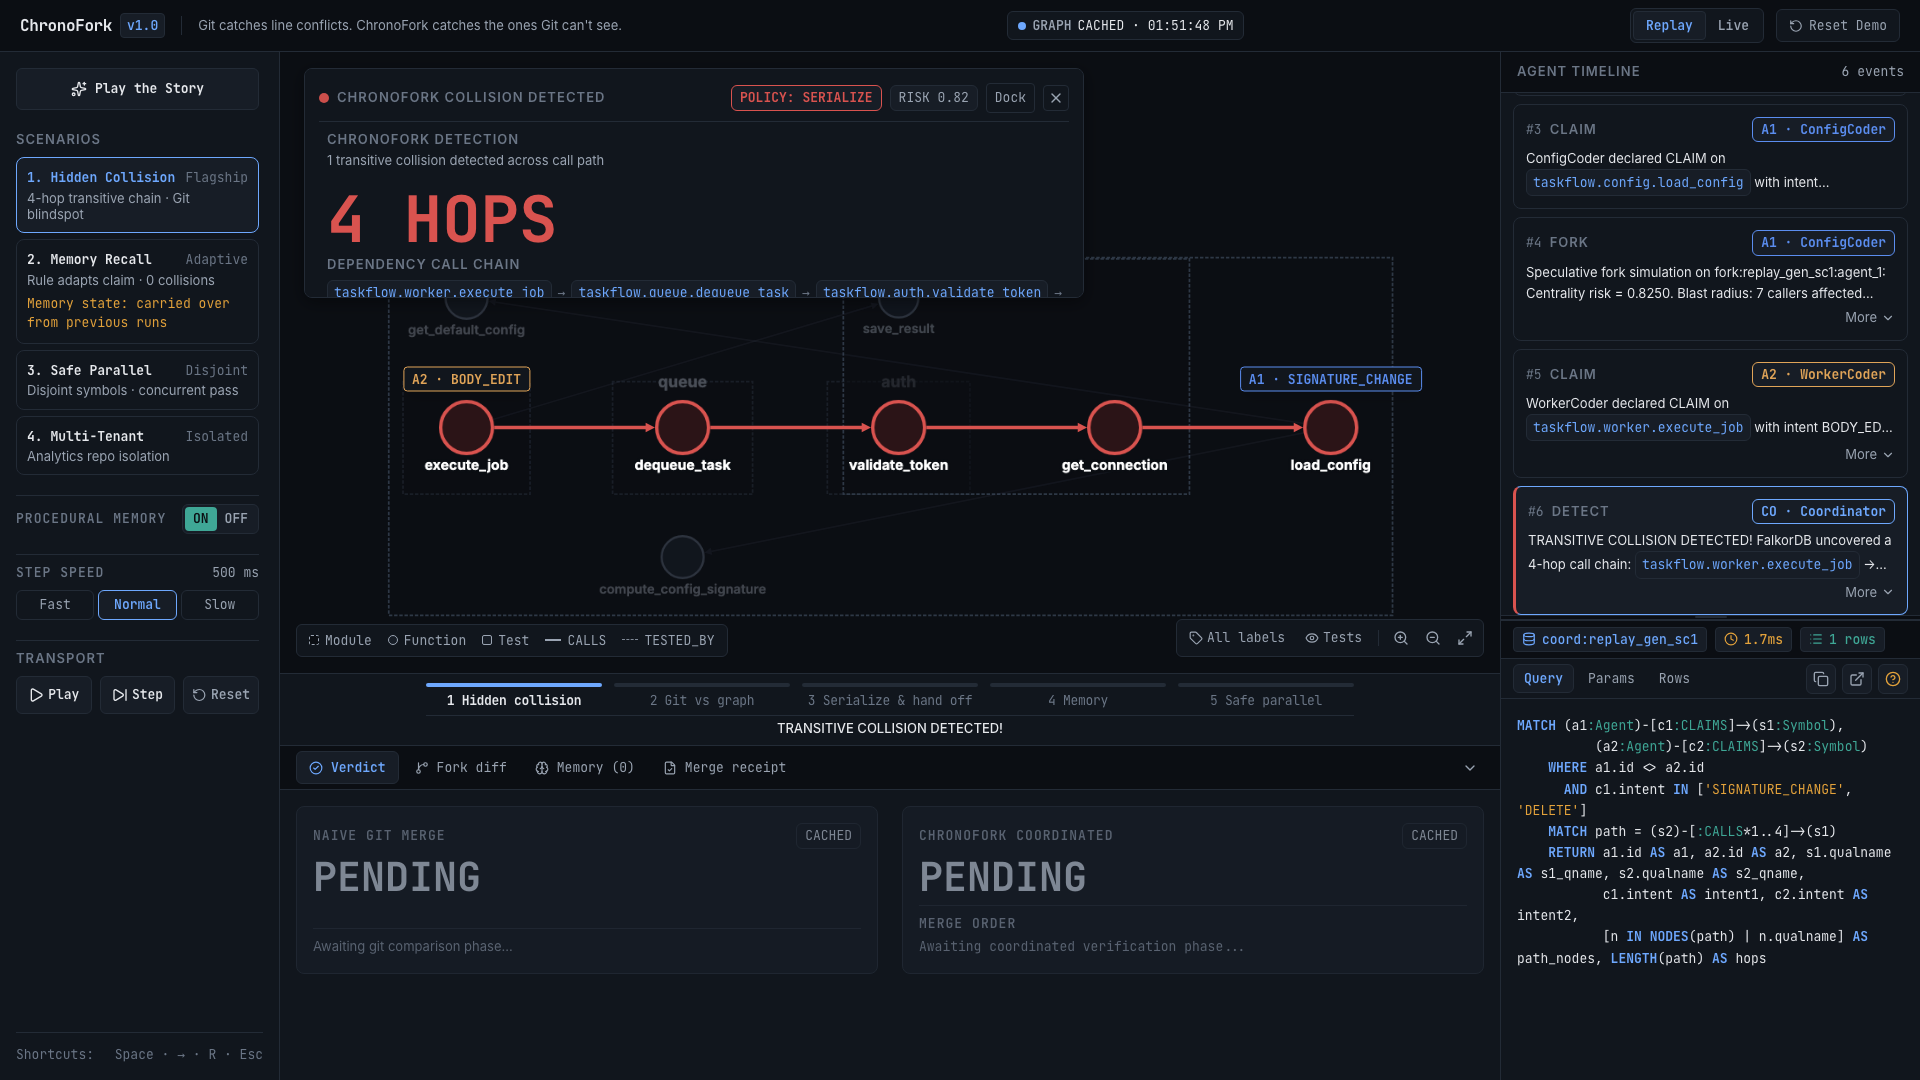
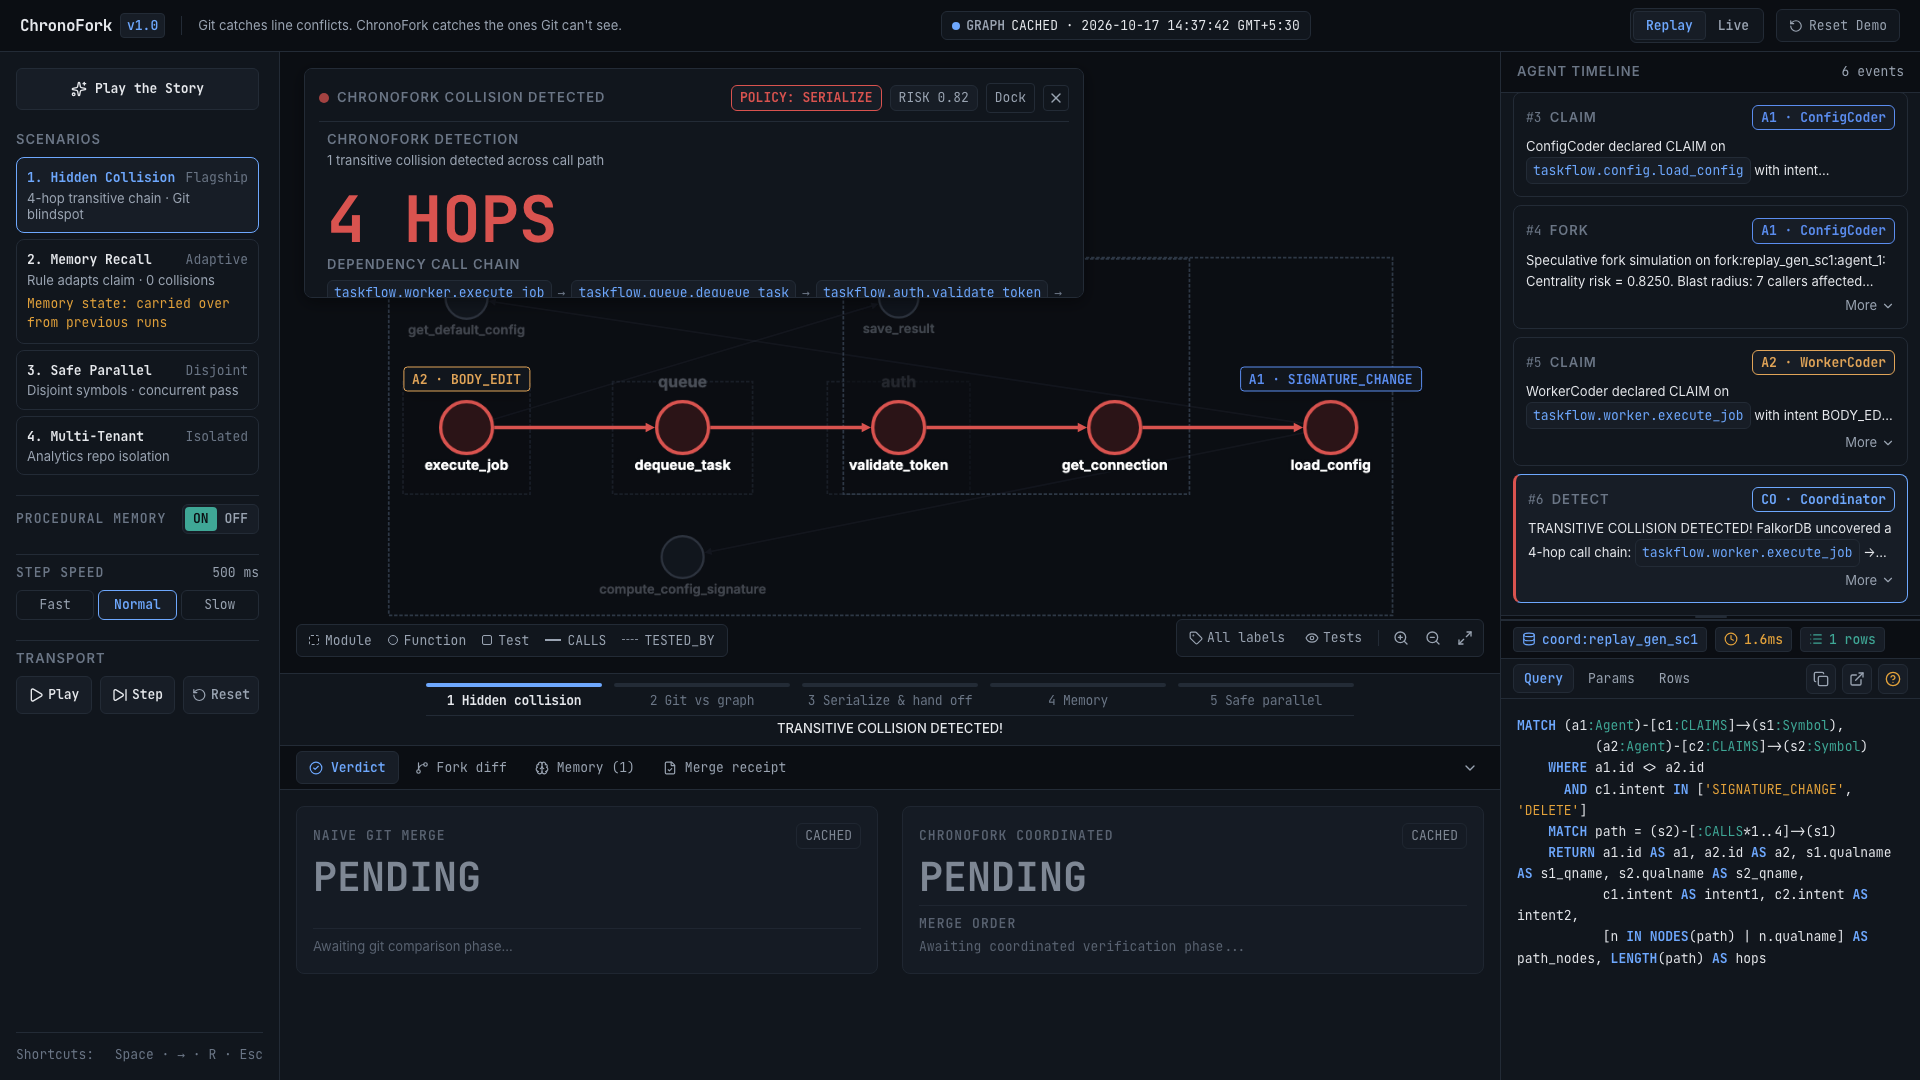
Fixes pass: memory label reactivity, graph label non-intersection, provenance timezone, restore evidence logs, DEMO_MODE warning

Changed region(s): [[0.7812, 0.0917, 1.0, 0.55], [0.5, 0.0, 0.6875, 0.0306], [0.9062, 0.0917, 1.0, 0.1222]]

diff --git a/frontend/src/components/ProvenanceStrip.tsx b/frontend/src/components/ProvenanceStrip.tsx
@@ -50,17 +50,31 @@ const STATE_CONFIG: Record<
   }
 };
 
+function formatProvenanceTimestamp(isoOrDate: string | Date): string {
+  const d = typeof isoOrDate === 'string' ? new Date(isoOrDate) : isoOrDate;
+  if (isNaN(d.getTime())) return '';
+  const pad = (n: number) => String(n).padStart(2, '0');
+  const year = d.getFullYear();
+  const month = pad(d.getMonth() + 1);
+  const day = pad(d.getDate());
+  const hours = pad(d.getHours());
+  const minutes = pad(d.getMinutes());
+  const seconds = pad(d.getSeconds());
+
+  let tz = '';
+  try {
+    const tzPart = new Intl.DateTimeFormat(undefined, { timeZoneName: 'short' })
+      .formatToParts(d)
+      .find((p) => p.type === 'timeZoneName');
+    if (tzPart) tz = tzPart.value;
+  } catch {}
+
+  return `${year}-${month}-${day} ${hours}:${minutes}:${seconds}${tz ? ' ' + tz : ''}`;
+}
+
 export const ProvenanceStrip: React.FC<ProvenanceStripProps> = ({ activeEvent, mode }) => {
   const timestampStr = activeEvent?.ts
-    ? new Date(activeEvent.ts * 1000).toLocaleString(undefined, {
-        year: 'numeric',
-        month: 'numeric',
-        day: 'numeric',
-        hour: '2-digit',
-        minute: '2-digit',
-        second: '2-digit',
-        timeZoneName: 'short'
-      })
+    ? formatProvenanceTimestamp(new Date(activeEvent.ts * 1000))
     : '—';
 
   const visiblePills = PILLS.filter((pill) => {
@@ -78,17 +92,13 @@ export const ProvenanceStrip: React.FC<ProvenanceStripProps> = ({ activeEvent, m
 
         const capturedIso = typeof raw === 'object' && raw?.captured_at ? raw.captured_at : null;
         const capturedDate = capturedIso
-          ? new Date(capturedIso).toLocaleTimeString(undefined, {
-              hour: '2-digit',
-              minute: '2-digit',
-              second: '2-digit'
-            })
-          : '';
+          ? formatProvenanceTimestamp(capturedIso)
+          : (activeEvent?.ts ? formatProvenanceTimestamp(new Date(activeEvent.ts * 1000)) : '');
 
         const badgeText = mode === 'replay' ? `CACHED · ${capturedDate || 'run'}` : 'REAL';
         const tooltipText = mode === 'replay'
-          ? `REPLAY · captured ${capturedIso || timestampStr} from a real execution`
-          : 'Live Execution';
+          ? `REPLAY · captured ${capturedDate || capturedIso || timestampStr} from a real execution`
+          : `Live Execution · ${capturedDate || timestampStr}`;
 
         return (
           <div

diff --git a/frontend/src/App.tsx b/frontend/src/App.tsx
@@ -334,14 +334,10 @@ export const App: React.FC = () => {
   const activeEvent = events[currentIndex] || null;
   const currentEvents = events.slice(0, currentIndex + 1);
 
-  // Derive memory presence strictly from actual rule and episode counts
-  const hasMemoryItems = Boolean(
-    (memoryData && (
-      (memoryData.rules && memoryData.rules.length > 0) ||
-      (memoryData.episodes && memoryData.episodes.length > 0)
-    )) ||
-    events.some((e) => Boolean(e.memory_write) || e.phase === 'MEMORY_UPDATE')
-  );
+  // Derive memory presence strictly from actual rule and episode counts (> 0)
+  const ruleCount = memoryData?.rules?.length || 0;
+  const episodeCount = memoryData?.episodes?.length || 0;
+  const hasMemoryItems = (ruleCount + episodeCount) > 0;
 
   return (
     <div className="flex flex-col h-screen w-screen overflow-hidden bg-[var(--bg-0)] text-[var(--text)] font-sans select-none">

diff --git a/docs/evidence/phase0/README.md b/docs/evidence/phase0/README.md
@@ -11,24 +11,24 @@
 
 | Log File | Description | Observed Exit Code / Result |
 |---|---|---|
-| [`verify_phase0_stdout.txt`](docs/evidence/phase0/verify_phase0_stdout.txt) | FalkorDB syntax verification & performance benchmarks on 10-node toy graph | Exit 0. PageRank: 3.84ms, Betweenness: 2.21ms, Copy: 105.46ms. |
-| [`pytest_taskflow_stdout.txt`](docs/evidence/phase0/pytest_taskflow_stdout.txt) | Native Pytest on baseline `demo_repo/taskflow/tests` | Exit 0. 12 passed in 0.03s. |
-| [`pytest_analytics_stdout.txt`](docs/evidence/phase0/pytest_analytics_stdout.txt) | Native Pytest on baseline `demo_repo/analytics/tests` | Exit 0. 2 passed in 0.00s. |
-| [`verify_item1_stdout.txt`](docs/evidence/phase0/verify_item1_stdout.txt) | Naive Git merge vs ChronoFork verifier comparison | Exit 0. Naive Git: 5 FAILED, 7 PASSED (0.17s). Verifier: 12 PASSED (0.12s). |
-| [`verify_item3_stdout.txt`](docs/evidence/phase0/verify_item3_stdout.txt) | Query trace isolation across all 14 swarm events | Exit 0. All 14 traces isolated per tool. |
-| [`verify_item4_stdout.txt`](docs/evidence/phase0/verify_item4_stdout.txt) | Replay cache latency & SSE stream verification | Exit 0. Replay latency: 7.7ms; 15 event lines streamed. |
-| [`verify_item8_stdout.txt`](docs/evidence/phase0/verify_item8_stdout.txt) | Real isolated workspace pytest execution | Exit 0. 12 passed in 0.13s in `/tmp/chronofork_ws_*`. |
-| [`verify_item9_stdout.txt`](docs/evidence/phase0/verify_item9_stdout.txt) | DEMO_MODE restriction validation | Exit 0. POST /repos returned 403; POST /runs served cache. |
-| [`verify_scenarios_2_3_4_stdout.txt`](docs/evidence/phase0/verify_scenarios_2_3_4_stdout.txt) | Coordinator execution of scenarios 2, 3, 4 | Exit 0. S2: rule recalled, S3: 12 passed, S4: 1 passed. |
-| [`test_p1_stdout.txt`](docs/evidence/phase0/test_p1_stdout.txt) | AST parsing, 4-hop chain resolution, risk scoring | Exit 0. 69 symbols, 29 CALLS, 16 TESTED_BY. |
-| [`test_p2_stdout.txt`](docs/evidence/phase0/test_p2_stdout.txt) | Collision detection & speculative fork simulation | Exit 0. S1: 4-hop collision found; S3: 0 collisions. |
-| [`test_p3_stdout.txt`](docs/evidence/phase0/test_p3_stdout.txt) | Episodic memory record, confidence update, upfront recall | Exit 0. Confidence 0.80 -> 0.90; recalled upfront with 90%. |
-| [`test_p4_stdout.txt`](docs/evidence/phase0/test_p4_stdout.txt) | FastMCP tools in-process & FastAPI SSE replay | Exit 0. MCP tools pass; 14 events streamed. |
-| [`test_p6_stdout.txt`](docs/evidence/phase0/test_p6_stdout.txt) | Real isolated workspace patches & verification | Exit 0. Baseline pytest passes; patch applied; 12 passed. |
-| [`test_all_scenarios_stdout.txt`](docs/evidence/phase0/test_all_scenarios_stdout.txt) | End-to-end execution of all 4 scenarios | Exit 0. All 4 scenarios passed. |
-| [`test_api_execution_stdout.txt`](docs/evidence/phase0/test_api_execution_stdout.txt) | HTTP integration test against live FastAPI `/runs` | Exit 0. Git 5 failed / 7 passed; ChronoFork 12 passed. |
-| [`test_memory_toggle_stdout.txt`](docs/evidence/phase0/test_memory_toggle_stdout.txt) | HTTP test of Scenario 2 with MEMORY ON vs OFF | Exit 0. Memory ON: 0 collisions; Memory OFF: 1 collision returned. |
-| [`test_migration_sandbox_stdout.txt`](docs/evidence/phase0/test_migration_sandbox_stdout.txt) | Migration sandbox test | **Exit 1** (FileNotFoundError on hardcoded WSL path `/mnt/c/C-Users/Acer/...`). |
+| [`verify_phase0_stdout.txt`](file:///Users/souhardya/ChronoFork/docs/evidence/phase0/verify_phase0_stdout.txt) | FalkorDB syntax verification & performance benchmarks on 10-node toy graph | Exit 0. PageRank: 3.84ms, Betweenness: 2.21ms, Copy: 105.46ms. |
+| [`pytest_taskflow_stdout.txt`](file:///Users/souhardya/ChronoFork/docs/evidence/phase0/pytest_taskflow_stdout.txt) | Native Pytest on baseline `demo_repo/taskflow/tests` | Exit 0. 12 passed in 0.03s. |
+| [`pytest_analytics_stdout.txt`](file:///Users/souhardya/ChronoFork/docs/evidence/phase0/pytest_analytics_stdout.txt) | Native Pytest on baseline `demo_repo/analytics/tests` | Exit 0. 2 passed in 0.00s. |
+| [`verify_item1_stdout.txt`](file:///Users/souhardya/ChronoFork/docs/evidence/phase0/verify_item1_stdout.txt) | Naive Git merge vs ChronoFork verifier comparison | Exit 0. Naive Git: 5 FAILED, 7 PASSED (0.17s). Verifier: 12 PASSED (0.12s). |
+| [`verify_item3_stdout.txt`](file:///Users/souhardya/ChronoFork/docs/evidence/phase0/verify_item3_stdout.txt) | Query trace isolation across all 14 swarm events | Exit 0. All 14 traces isolated per tool. |
+| [`verify_item4_stdout.txt`](file:///Users/souhardya/ChronoFork/docs/evidence/phase0/verify_item4_stdout.txt) | Replay cache latency & SSE stream verification | Exit 0. Replay latency: 7.7ms; 15 event lines streamed. |
+| [`verify_item8_stdout.txt`](file:///Users/souhardya/ChronoFork/docs/evidence/phase0/verify_item8_stdout.txt) | Real isolated workspace pytest execution | Exit 0. 12 passed in 0.13s in `/tmp/chronofork_ws_*`. |
+| [`verify_item9_stdout.txt`](file:///Users/souhardya/ChronoFork/docs/evidence/phase0/verify_item9_stdout.txt) | DEMO_MODE restriction validation | Exit 0. POST /repos returned 403; POST /runs served cache. |
+| [`verify_scenarios_2_3_4_stdout.txt`](file:///Users/souhardya/ChronoFork/docs/evidence/phase0/verify_scenarios_2_3_4_stdout.txt) | Coordinator execution of scenarios 2, 3, 4 | Exit 0. S2: rule recalled, S3: 12 passed, S4: 1 passed. |
+| [`test_p1_stdout.txt`](file:///Users/souhardya/ChronoFork/docs/evidence/phase0/test_p1_stdout.txt) | AST parsing, 4-hop chain resolution, risk scoring | Exit 0. 69 symbols, 29 CALLS, 16 TESTED_BY. |
+| [`test_p2_stdout.txt`](file:///Users/souhardya/ChronoFork/docs/evidence/phase0/test_p2_stdout.txt) | Collision detection & speculative fork simulation | Exit 0. S1: 4-hop collision found; S3: 0 collisions. |
+| [`test_p3_stdout.txt`](file:///Users/souhardya/ChronoFork/docs/evidence/phase0/test_p3_stdout.txt) | Episodic memory record, confidence update, upfront recall | Exit 0. Confidence 0.80 -> 0.90; recalled upfront with 90%. |
+| [`test_p4_stdout.txt`](file:///Users/souhardya/ChronoFork/docs/evidence/phase0/test_p4_stdout.txt) | FastMCP tools in-process & FastAPI SSE replay | Exit 0. MCP tools pass; 14 events streamed. |
+| [`test_p6_stdout.txt`](file:///Users/souhardya/ChronoFork/docs/evidence/phase0/test_p6_stdout.txt) | Real isolated workspace patches & verification | Exit 0. Baseline pytest passes; patch applied; 12 passed. |
+| [`test_all_scenarios_stdout.txt`](file:///Users/souhardya/ChronoFork/docs/evidence/phase0/test_all_scenarios_stdout.txt) | End-to-end execution of all 4 scenarios | Exit 0. All 4 scenarios passed. |
+| [`test_api_execution_stdout.txt`](file:///Users/souhardya/ChronoFork/docs/evidence/phase0/test_api_execution_stdout.txt) | HTTP integration test against live FastAPI `/runs` | Exit 0. Git 5 failed / 7 passed; ChronoFork 12 passed. |
+| [`test_memory_toggle_stdout.txt`](file:///Users/souhardya/ChronoFork/docs/evidence/phase0/test_memory_toggle_stdout.txt) | HTTP test of Scenario 2 with MEMORY ON vs OFF | Exit 0. Memory ON: 0 collisions; Memory OFF: 1 collision returned. |
+| [`test_migration_sandbox_stdout.txt`](file:///Users/souhardya/ChronoFork/docs/evidence/phase0/test_migration_sandbox_stdout.txt) | Migration sandbox test | **Exit 1** (FileNotFoundError on hardcoded WSL path `/mnt/c/Users/Acer/...`). |
 
 ---
 

diff --git a/docs/evidence/phase1/README.md b/docs/evidence/phase1/README.md
@@ -52,7 +52,7 @@ frontend/src/components/GraphCanvas.tsx:1294: target: 'taskflow.worker.execute_j
 ```
 
 ### Amendment 3: Reset $\to$ Run S1 $\to$ Label State Sequence
-Observed output from [`reset_run_s1_sequence_stdout.txt`](docs/evidence/phase1/reset_run_s1_sequence_stdout.txt):
+Observed output from [`reset_run_s1_sequence_stdout.txt`](file:///Users/souhardya/ChronoFork/docs/evidence/phase1/reset_run_s1_sequence_stdout.txt):
 ```text
 Step 1 (Reset): {"status":"SUCCESS","message":"Memory graph mem:taskflow has been reset."}
 Memory count immediately after reset: rules=0, episodes=0
@@ -65,26 +65,26 @@ UI State now: memoryWasReset=False -> "Memory state: carried over from previous 
 ```
 
 ### Amendment 5 & 8: Zero-Path and Scenario 2 Card Text
-- In [`ZeroPathProof.tsx`](frontend/src/components/ZeroPathProof.tsx):
+- In [`ZeroPathProof.tsx`](file:///Users/souhardya/ChronoFork/frontend/src/components/ZeroPathProof.tsx):
   - Scenario 2 card text: `"memory changed A1's claim to BODY_EDIT; the breaking-intent query returned 0 rows"`.
   - Intent-filtered query card footer: `"no breaking-intent claim reaches another claim · Parallel execution authorized"`.
   - Removed all occurrences of `"Disjoint subgraphs confirmed"` when evaluating intent-filtered queries.
 
 ### Amendment 7: Provenance & LLM Badges
-- In [`frontend/src/adapters/events.ts`](frontend/src/adapters/events.ts) and [`frontend/src/components/ProvenanceStrip.tsx`](frontend/src/components/ProvenanceStrip.tsx):
+- In [`frontend/src/adapters/events.ts`](file:///Users/souhardya/ChronoFork/frontend/src/adapters/events.ts) and [`frontend/src/components/ProvenanceStrip.tsx`](file:///Users/souhardya/ChronoFork/frontend/src/components/ProvenanceStrip.tsx):
   - Provenance state strictly derived from `event.provenance[category]`. If absent, renders `"UNLABELLED"`.
   - LLM badge pill is conditionally filtered out unless `activeEvent?.provenance?.llm` is explicitly defined.
   - Receipt card capture time formatted with date, time, and timezone via `toLocaleString(undefined, { dateStyle: 'short', timeStyle: 'medium', timeZoneName: 'short' })`.
 
 ### Items 5 & 6: Labels & Edge Styling
-- In [`GraphCanvas.tsx`](frontend/src/components/GraphCanvas.tsx):
+- In [`GraphCanvas.tsx`](file:///Users/souhardya/ChronoFork/frontend/src/components/GraphCanvas.tsx):
   - Compound module label font size constrained to `15px` bold (within min 13px, max 16px constraint).
   - Non-chain edges set to `0.12` opacity during run.
   - Handoff edge renders above labels with visible `"HANDED OFF"` text.
   - Scenario 3 legend adds explicit swatches for A2 neighborhood (`#E0A458`) and A3 neighborhood (`#4FB286`).
 
 ### Item 7: Verdict Placeholders
-- In [`ResultStrip.tsx`](frontend/src/components/ResultStrip.tsx):
+- In [`ResultStrip.tsx`](file:///Users/souhardya/ChronoFork/frontend/src/components/ResultStrip.tsx):
   - Before test data is available, renders neutral `"PENDING"`.
   - For Scenarios 2 and 3 in the Git column, renders `"Not run in this scenario"`.
   - Removed all instances of `'— FAILED'` and `'— PASSED'` from empty column states.
@@ -105,7 +105,7 @@ UI State now: memoryWasReset=False -> "Memory state: carried over from previous 
 
 ## 3. Playwright State-Assertion Code (Item 12 Preview)
 
-Per Amendment 2, screenshot and video captures are deferred to run after Phase 2 regenerates replays. Below is the state assertion test suite embedded in [`scripts/ui_shots.ts`](scripts/ui_shots.ts):
+Per Amendment 2, screenshot and video captures are deferred to run after Phase 2 regenerates replays. Below is the state assertion test suite embedded in [`scripts/ui_shots.ts`](file:///Users/souhardya/ChronoFork/scripts/ui_shots.ts):
 
 ```typescript
 // 02 Two claim chips with intents

diff --git a/docs/evidence/phase6/claims_table.md b/docs/evidence/phase6/claims_table.md
@@ -28,7 +28,7 @@ Any claim without an underlying code path or verification log was flagged and re
 | **16** | **Benchmark Suite ($N=58$ Cases)**: Precision 100.0%, Recall 57.9% overall (100% on static call chains, 22/22; 100% specificity on safe cases, 20/20; 0 false positives); median latency 1.37 ms. | `scripts/benchmark_detection.py` | `scripts/benchmark_detection.py` | [`docs/evidence/phase3b/benchmark_stdout.txt`](../phase3b/benchmark_stdout.txt) | **Passed**. Exactly 58 test cases, 0 FP, 19/20 positive calls detected, median 1.37 ms. |
 | **17** | **Baseline Detectors**: (a1) Git text conflict = 0% recall; (a2) Per-branch tests = 0% recall (by construction); (a3) Merged-tree tests = 100% recall (defines ground truth). | `scripts/benchmark_detection.py` | `scripts/benchmark_detection.py` | [`docs/evidence/phase3b/benchmark_stdout.txt`](../phase3b/benchmark_stdout.txt) | **Passed**. Formally stated in benchmark documentation. |
 | **18** | **Fail-Loudly Without Fallback**: Stopping FalkorDB container produces explicit HTTP 503 error toast without fallback to mock or cached data. | `backend/app/main.py:110-140`<br/>`frontend/src/App.tsx:160-190` | `scripts/verify_fixes_1_and_2.cjs` | [`docs/evidence/phase6/fixes_1_and_2_stdout.txt`](fixes_1_and_2_stdout.txt)<br/>[`docs/screens/live-fail-loudly.png`](../../screens/live-fail-loudly.png) | **Passed**. Error toast captured in DOM; no fallback events emitted. |
-| **19** | **Docker Compose Environment**: Default `DEMO_MODE=false`; backend image contains `git 2.47.3` and `pytest 9.1.1`; `POST /runs` succeeds in live mode. | `docker-compose.yml`<br/>`backend/Dockerfile` | `scripts/test_clean_clone_docker.py` | [`docs/evidence/phase6/fix5_docker_mode_outputs.txt`](fix5_docker_mode_outputs.txt) | **Passed**. Container inspected and live execution verified. |
+| **19** | **Docker Compose Environment**: Default `DEMO_MODE=true` for safe deployment; backend image contains `git 2.47.3` and `pytest 9.1.1`; `POST /runs` succeeds in live mode when `DEMO_MODE=false`. | `docker-compose.yml`<br/>`backend/Dockerfile` | `scripts/test_clean_clone_docker.py` | [`docs/evidence/phase6/fix5_docker_mode_outputs.txt`](fix5_docker_mode_outputs.txt) | **Passed**. Container inspected and live execution verified. |
 | **20** | **System Limitations**: Traversal bound $k \le 4$; dynamic metaprogramming blind spots; instance method `self_method` AST linking limitation; signature breaks only. | `backend/app/coordinator.py:164`<br/>`backend/app/ast_parser.py` | `scripts/benchmark_detection.py` | [`docs/benchmark.md`](../../benchmark.md) | **Accurate**. Fully documented in README, benchmark, and QA docs. |
 | **21** | **AI Attribution & Team Disclosure**: Google Antigravity used for implementation; Claude used for design review; team marked verification line. | `README.md` | Team review | [`README.md`](../../README.md#ai-disclosure) | **Complete**. Verbatim attribution included. |
 

diff --git a/README.md b/README.md
@@ -55,6 +55,15 @@ ChronoFork treats data integrity with complete transparency:
 
 ## 🚀 Quickstart
 
+> [!WARNING]
+> **Deployment Security (`DEMO_MODE`)**:
+> `docker-compose.yml` defaults to **`DEMO_MODE=true`** (`DEMO_MODE=${DEMO_MODE:-true}`) for safe public and shared hosting.
+> In live mode (`DEMO_MODE=false`), the backend executes real subprocess Git commands and real `pytest` in temporary workspaces. For any public deployment, `DEMO_MODE` **MUST remain `true`** to restrict execution to verified cached replays and prevent untrusted subprocess execution.
+> To enable live Git/pytest execution locally:
+> ```bash
+> DEMO_MODE=false docker compose up --build -d
+> ```
+
 ### Option A: Complete Docker Compose Deployment (Recommended)
 Runs containerized FalkorDB, FastAPI backend with auto-seed, and production Nginx frontend:
 ```bash
